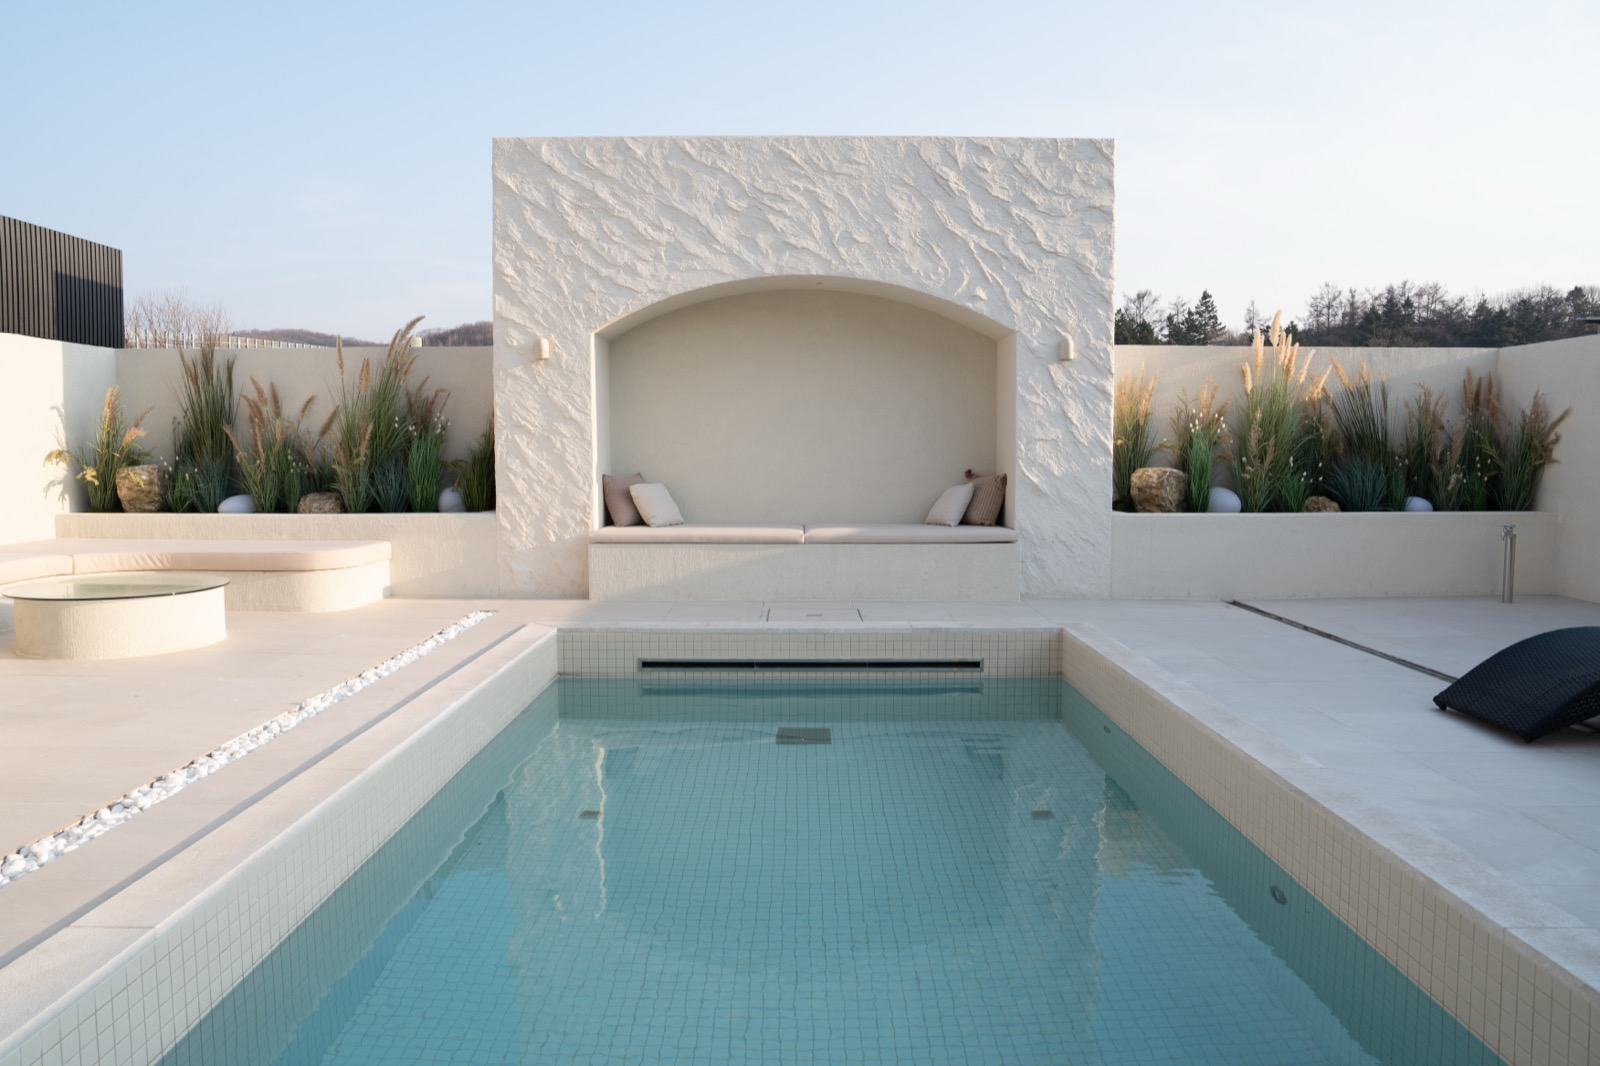
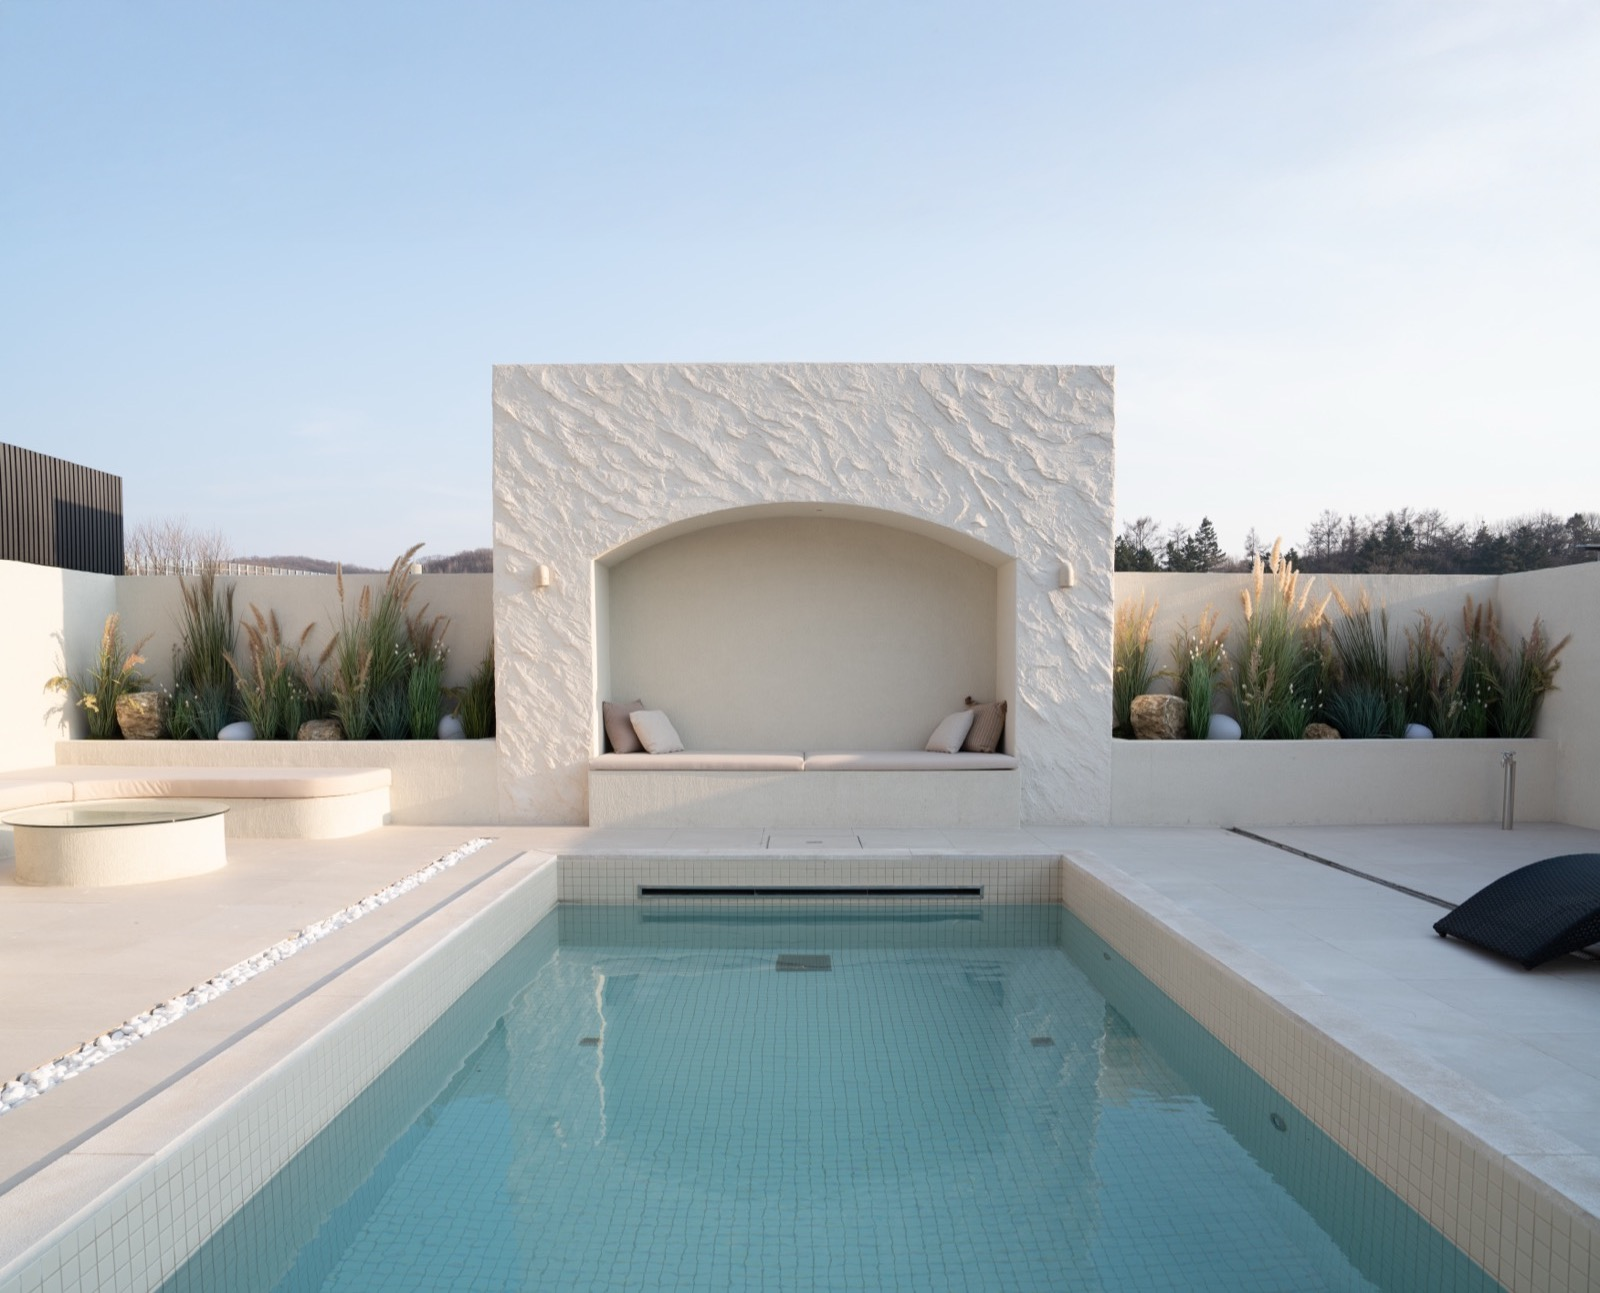
Use squareish kmong image for mobile hero, restore 85vh height

diff --git a/src/app/page.tsx b/src/app/page.tsx
@@ -9,7 +9,7 @@ import ScrollGallery from "@/components/ScrollGallery";
    ───────────────────────────── */
 function Hero() {
   return (
-    <section className="relative flex flex-col items-center justify-center overflow-hidden bg-neutral-900 h-[65vh] min-h-[420px] md:h-auto md:aspect-[1393/907]">
+    <section className="relative flex flex-col items-center justify-center overflow-hidden bg-neutral-900 h-[85vh] min-h-[500px] md:h-auto md:aspect-[1393/907]">
       <picture>
         <source media="(min-width: 768px)" srcSet="/hero.jpg" />
         <img src="/hero-mobile.jpg" alt="PIERRE 풀빌라" className="absolute inset-0 w-full h-full object-cover object-center md:object-contain" />
